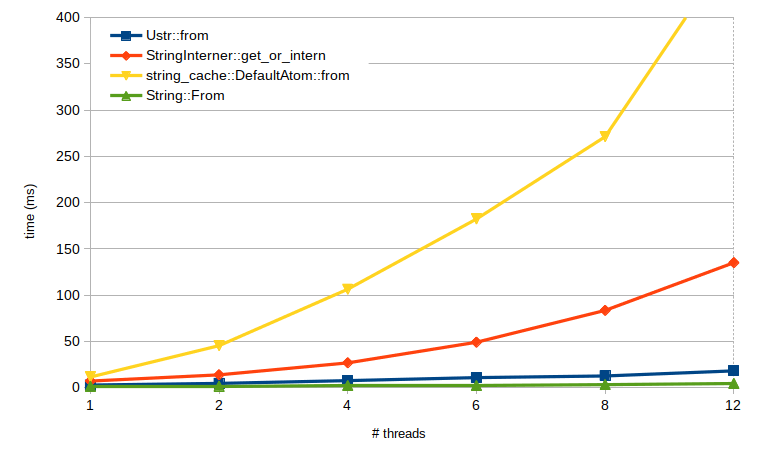
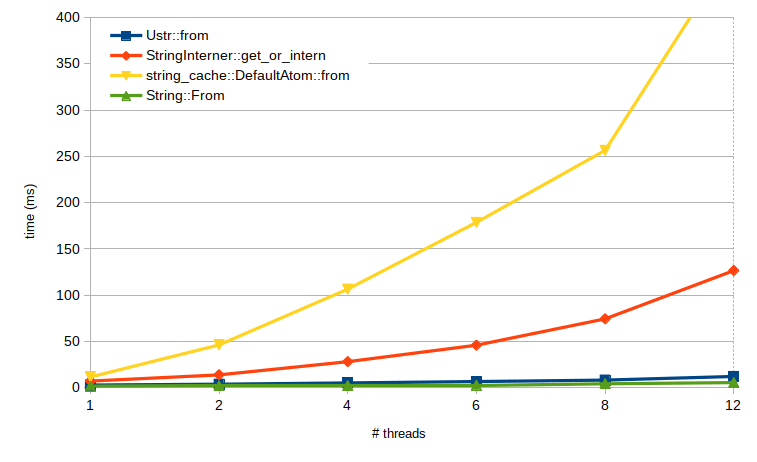
bump to version 0.3.0. remove std::sync::Mutex path and default to parking_lot

diff --git a/src/lib.rs b/src/lib.rs
@@ -124,7 +124,11 @@
 //! ## Safety and Compatibility
 //! This crate has been tested on x86_64 ONLY. Compilation will fail with a
 //! static assert if the pointer size is not 64 bits.
+#[cfg(not(feature = "spinlock"))]
+use parking_lot::Mutex;
+#[cfg(feature = "spinlock")]
 use spin::Mutex;
+
 use std::fmt;
 
 mod stringcache;
@@ -328,7 +332,11 @@ pub fn total_allocated() -> usize {
     STRING_CACHE
         .0
         .iter()
-        .map(|sc| sc.lock().total_allocated())
+        .map(|sc| {
+            let t = sc.lock().total_allocated();
+
+            t
+        })
         .sum()
 }
 
@@ -337,7 +345,10 @@ pub fn total_capacity() -> usize {
     STRING_CACHE
         .0
         .iter()
-        .map(|sc| sc.lock().total_capacity())
+        .map(|sc| {
+            let t = sc.lock().total_capacity();
+            t
+        })
         .sum()
 }
 
@@ -388,7 +399,10 @@ pub fn num_entries() -> usize {
     STRING_CACHE
         .0
         .iter()
-        .map(|sc| sc.lock().num_entries())
+        .map(|sc| {
+            let t = sc.lock().num_entries();
+            t
+        })
         .sum()
 }
 
@@ -397,7 +411,10 @@ pub fn num_entries_per_bin() -> Vec<usize> {
     STRING_CACHE
         .0
         .iter()
-        .map(|sc| sc.lock().num_entries())
+        .map(|sc| {
+            let t = sc.lock().num_entries();
+            t
+        })
         .collect::<Vec<_>>()
 }
 
@@ -450,8 +467,6 @@ mod tests {
         assert_eq!(u_hello, "hello");
         let u_world = u("world");
         assert_eq!(u_world, String::from("world"));
-
-        println!("{}", std::mem::size_of::<spin::Mutex<super::StringCache>>());
     }
 
     #[test]

diff --git a/benches/creation.rs b/benches/creation.rs
@@ -10,6 +10,11 @@ use string_interner::StringInterner;
 
 use ustr::*;
 
+#[cfg(not(feature = "parkinglot"))]
+use parking_lot::Mutex;
+#[cfg(feature = "spinlock")]
+use spin::Mutex;
+
 fn criterion_benchmark(c: &mut Criterion) {
     let path = std::path::Path::new(&std::env::var("CARGO_MANIFEST_DIR").unwrap())
         .join("data")
@@ -114,8 +119,7 @@ fn criterion_benchmark(c: &mut Criterion) {
         c.bench_function(
             &format!("raft string-interner x {} threads", num_threads),
             move |b| {
-                let (tx1, rx1) =
-                    bounded::<Arc<spin::Mutex<StringInterner<string_interner::Sym>>>>(0);
+                let (tx1, rx1) = bounded::<Arc<Mutex<StringInterner<string_interner::Sym>>>>(0);
                 let (tx2, rx2) = bounded(0);
                 scope(|scope| {
                     for tt in 0..num_threads {
@@ -135,7 +139,7 @@ fn criterion_benchmark(c: &mut Criterion) {
                     }
 
                     b.iter(|| {
-                        let interner = Arc::new(spin::Mutex::new(StringInterner::default()));
+                        let interner = Arc::new(Mutex::new(StringInterner::default()));
                         for _ in 0..num_threads {
                             tx1.send(interner.clone()).unwrap();
                         }

diff --git a/README.md b/README.md
@@ -85,6 +85,11 @@ Ustrs are significantly faster to create than string-interner or string-cache. C
 
 ![raft bench](ustring_bench_raft.png)
 
+## Synchronization primitives
+ustr can be compiled using either parking_lot::Mutex (`features=parkinglot`) or spin:Mutex (`features=spinlock`) for syncronization. The default is parking_lot. Spinlocks have gotten bad press lately, but ustr still benches slightly faster using them. Use at your discretion.
+
+![mutex bench](mutex_comparison.png)
+
 # Testing
 Note that tests must be run with RUST_TEST_THREADS=1 or some tests will fail due to concurrent tests filling the cache or segfaults caused by concurrently clearing the cache. Note that this cannot happen in user code if you don't call the hidden functions documented DO NOT CALL. If you do, well you were warned.
 
